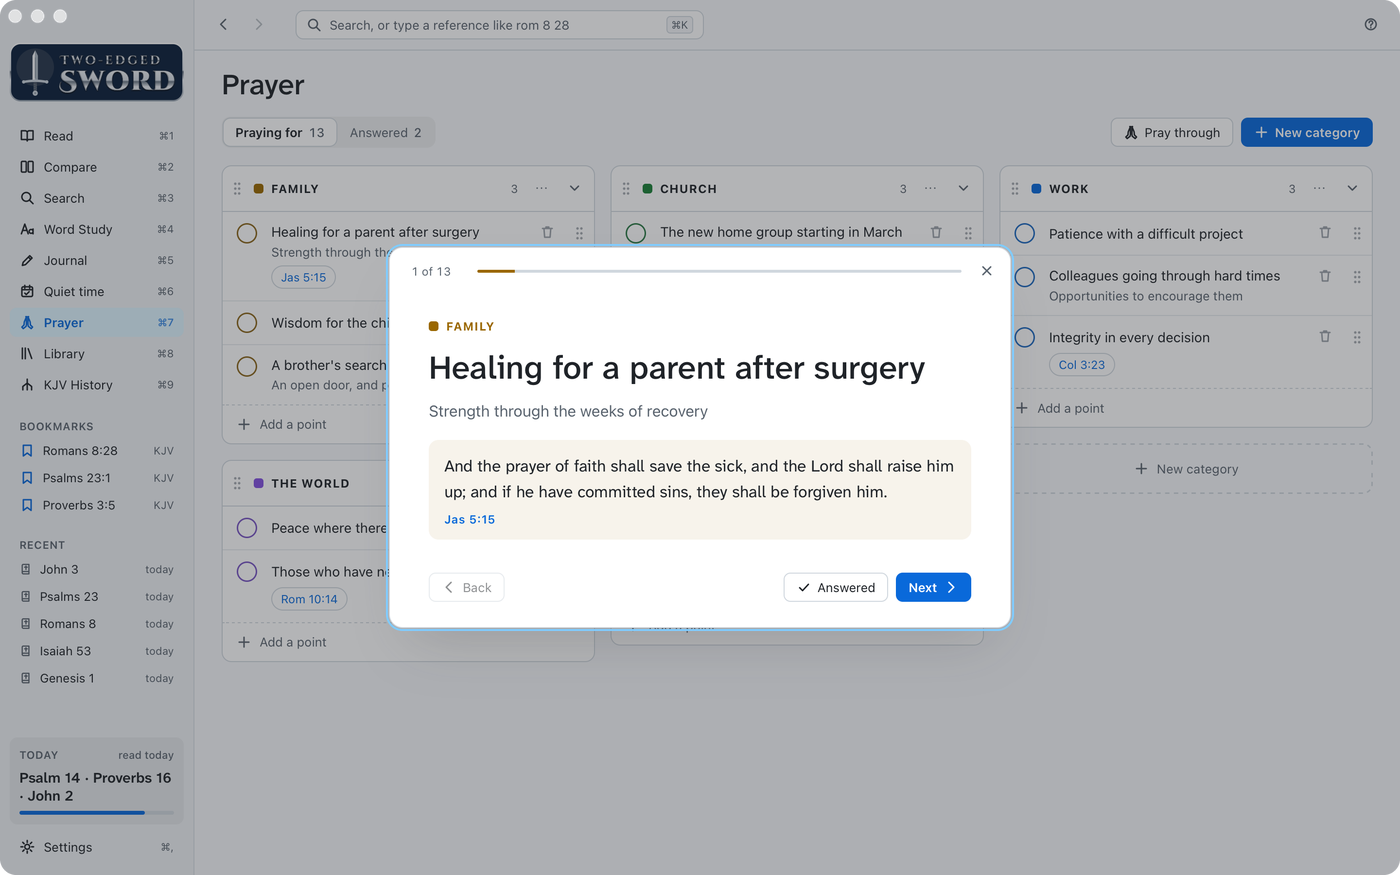
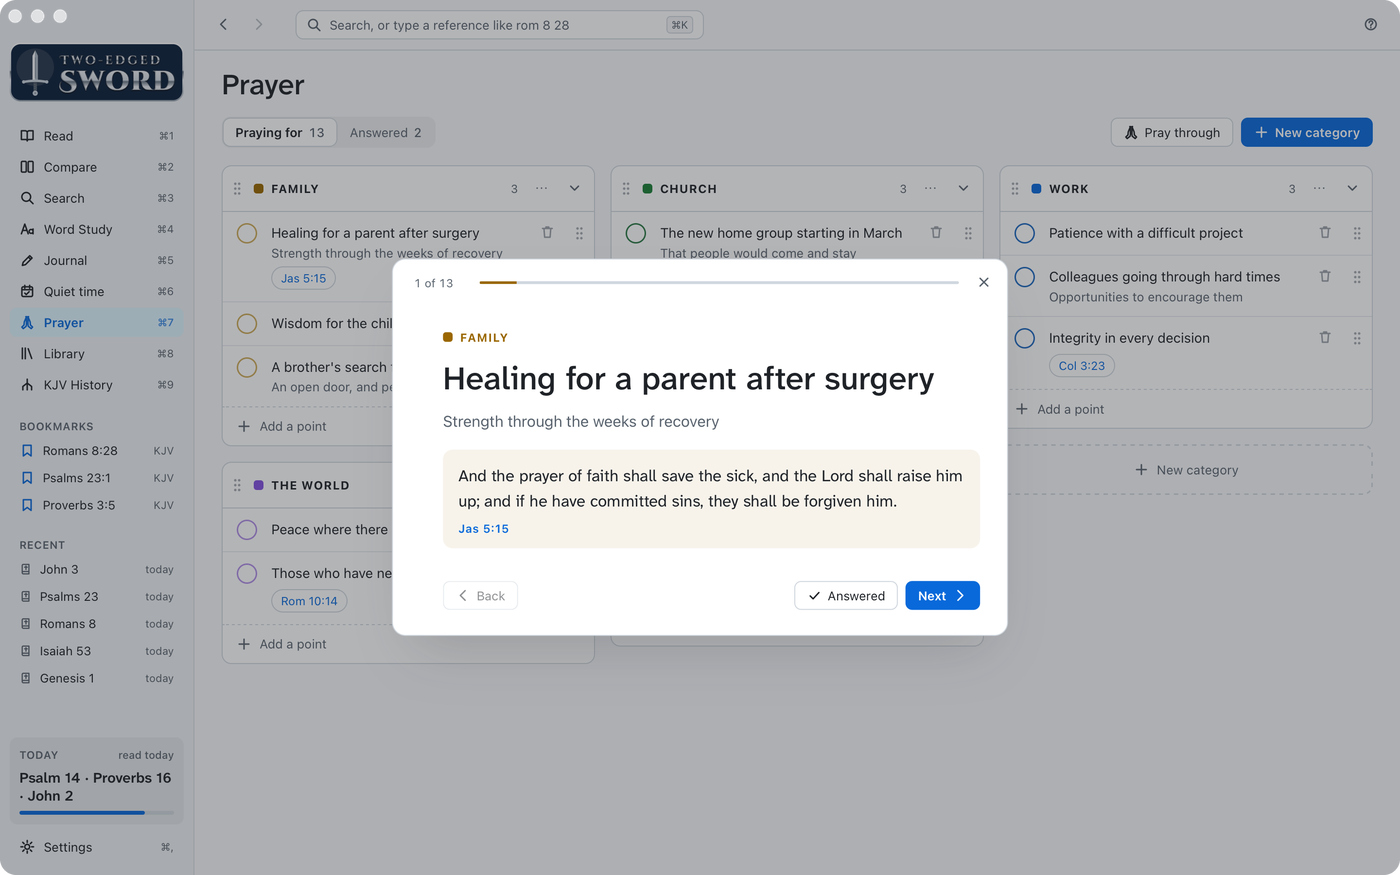
Website and tutorials: Prayer on the product page (first in Quiet time's tour, and a section of its own), a "Begin in prayer" step in the daily quiet time tutorial with its pictures, and the screen shortcuts now ⌘7 Prayer, ⌘8 Library, ⌘9 KJV History in the guides and tutorials. Fixes a point's note 

diff --git a/site/tutorials/devotional.html b/site/tutorials/devotional.html
@@ -73,8 +73,9 @@
     <div class="brief-card rise">
       <p class="eyebrow">The story</p>
       <p>Leading the Thursday group at Hillside Church has reminded you how much you need time alone with the Lord yourself. You want to <b>keep a daily quiet time</b>: half an hour each morning, before the day crowds in.</p>
-      <p>Quiet time is not a task to tick off. It is meeting with Jesus, your Lord and Saviour, who loved you and gave Himself for you. Two-edged Sword sets the table: the day's reading, a devotional, songs to worship Him, and a verse to carry with you. The Holy Spirit, the Comforter, does the teaching (John 14:26).</p>
+      <p>Quiet time is not a task to tick off. It is meeting with Jesus, your Lord and Saviour, who loved you and gave Himself for you. Two-edged Sword sets the table: prayer, the day's reading, a devotional, songs to worship Him, and a verse to carry with you. The Holy Spirit, the Comforter, does the teaching (John 14:26).</p>
       <ul class="makes">
+        <li><b>A prayer list</b>to begin each morning in prayer</li>
         <li><b>A reading plan</b>a Psalm, a Proverb and one more</li>
         <li><b>Worship</b>songs chosen for the day's reading</li>
         <li><b>A closing verse</b>to carry into the day</li>
@@ -89,13 +90,14 @@
       <ol>
         <li><a href="#plan"><span>1</span>Choose a plan</a></li>
         <li><a href="#devotionals"><span>2</span>Add a devotional</a></li>
-        <li><a href="#read"><span>3</span>Read each day</a></li>
-        <li><a href="#worship"><span>4</span>Worship first</a></li>
-        <li><a href="#words"><span>5</span>Sing the words</a></li>
-        <li><a href="#closing"><span>6</span>End with a verse</a></li>
-        <li><a href="#reminder"><span>7</span>Set a reminder</a></li>
-        <li><a href="#menubar"><span>8</span>Start from the <span class="mac-only">menu bar</span><span class="win-only">notification area</span></a></li>
-        <li><a href="#journal"><span>9</span>Write what you learned</a></li>
+        <li><a href="#prayer"><span>3</span>Begin in prayer</a></li>
+        <li><a href="#read"><span>4</span>Read each day</a></li>
+        <li><a href="#worship"><span>5</span>Worship before you read</a></li>
+        <li><a href="#words"><span>6</span>Sing the words</a></li>
+        <li><a href="#closing"><span>7</span>End with a verse</a></li>
+        <li><a href="#reminder"><span>8</span>Set a reminder</a></li>
+        <li><a href="#menubar"><span>9</span>Start from the <span class="mac-only">menu bar</span><span class="win-only">notification area</span></a></li>
+        <li><a href="#journal"><span>10</span>Write what you learned</a></li>
       </ol>
       <div class="bar" aria-hidden="true"><i></i></div>
     </aside>
@@ -129,14 +131,42 @@
           <li>Each is read as part of the day, opened on today's reading.</li>
         </ol>
         <figure class="figure rise">
-          <div class="shot free"><img src="../img/tut/tut4-cards.webp" alt="The Devotionals, Worship music and Closing verse cards on a plan's page" width="2366" height="422" loading="lazy"></div>
-          <figcaption>On the plan's page: the day's devotional, worship music and the closing verse.</figcaption>
+          <div class="shot free"><img src="../img/tut/tut4-cards.webp" alt="The Prayer, Worship music, Devotionals and Closing verse cards on a plan's page" width="2366" height="422" loading="lazy"></div>
+          <figcaption>On the plan's page, in the order Quiet time goes: prayer, worship music, the day's devotional and the closing verse.</figcaption>
         </figure>
       </section>
 
       <!-- 3 -->
-      <section id="read" class="lesson">
+      <section id="prayer" class="lesson">
         <span class="num">3</span>
+        <h2>Begin in prayer.</h2>
+        <p class="why">“Be careful for nothing; but in every thing by prayer and supplication with thanksgiving let your requests be made known unto God” (Philippians 4:6). A list keeps the people He has given you before Him each day: your family, the Thursday group, a colleague who is struggling.</p>
+        <h3>Make your prayer list</h3>
+        <ol class="do">
+          <li>Press <kbd data-win="Ctrl+7">⌘7</kbd> to open <b>Prayer</b>. Click <b>Family</b>, <b>Church</b> or one of the others to start, or <b>New category</b> to name your own, such as <b>Hillside Church</b>.</li>
+          <li>Click <b>Add a point</b> under a category and type what you're praying for. Return adds it and leaves the box open for the next.</li>
+          <li>Click a point to give it a short note, and the verses you pray over it, such as <b>Col 1:9</b>.</li>
+          <li>Drag a point to put it in order, or into another category. Drag a category by its header.</li>
+        </ol>
+        <figure class="figure rise">
+          <div class="shot"><img src="../img/tut/tut4-prayer.webp" alt="The prayer list: Hillside Church, Family, Work and The world, each with its prayer points" width="2880" height="1800" loading="lazy"></div>
+          <figcaption>A card for each part of your life, with the people and needs you bring to Him.</figcaption>
+        </figure>
+        <h3>Pray first, each morning</h3>
+        <ol class="do">
+          <li>Back in <b>Quiet time</b>, turn on the <b>Prayer</b> card on your plan's page.</li>
+          <li>Quiet time now begins with <b>Pray through</b>: one point at a time, with the words of its verses. <b>Next</b>, or <kbd>→</kbd>, goes on; <b>Go on</b> at the end takes you to the songs and the reading.</li>
+          <li>When God answers a prayer, click <b>Answered</b>. It moves to the <b>Answered</b> tab with the day, a record of His faithfulness.</li>
+        </ol>
+        <figure class="figure rise">
+          <div class="shot"><img src="../img/tut/tut4-praythrough.webp" alt="Pray through: the Thursday group, with the words of Colossians 1:9" width="2880" height="1800" loading="lazy"></div>
+          <figcaption>Pray through: one point at a time, its verse beneath it.</figcaption>
+        </figure>
+      </section>
+
+      <!-- 4 -->
+      <section id="read" class="lesson">
+        <span class="num">4</span>
         <h2>Read each day.</h2>
         <p class="why">“Thy word is a lamp unto my feet, and a light unto my path” (Psalm 119:105). Today's card has everything for the morning.</p>
         <ol class="do">
@@ -159,10 +189,10 @@
         </div>
       </section>
 
-      <!-- 4 -->
+      <!-- 5 -->
       <section id="worship" class="lesson">
-        <span class="num">4</span>
-        <h2>Worship first.</h2>
+        <span class="num">5</span>
+        <h2>Worship before you read.</h2>
         <p class="why">“God is a Spirit: and they that worship him must worship him in spirit and in truth” (John 4:24). A song or two before you read quiets the heart and turns it to Him.</p>
         <ol class="do">
           <li>On the <b>Worship music</b> card, turn on <b>Songs before the reading</b>, and <b>Songs after the reading</b> if you like, and choose how many.</li>
@@ -180,9 +210,9 @@
         </div>
       </section>
 
-      <!-- 5 -->
+      <!-- 6 -->
       <section id="words" class="lesson">
-        <span class="num">5</span>
+        <span class="num">6</span>
         <h2>Sing the words.</h2>
         <p class="why">While a song plays, its words show in the reading column, so you can sing along, or simply pray them.</p>
         <ol class="do">
@@ -206,9 +236,9 @@
         </div>
       </section>
 
-      <!-- 6 -->
+      <!-- 7 -->
       <section id="closing" class="lesson">
-        <span class="num">6</span>
+        <span class="num">7</span>
         <h2>End with a verse.</h2>
         <p class="why">The closing verse gathers up what the morning's reading taught, so you leave with one word from the Lord to carry through the day.</p>
         <ol class="do">
@@ -228,9 +258,9 @@
         </div>
       </section>
 
-      <!-- 7 -->
+      <!-- 8 -->
       <section id="reminder" class="lesson">
-        <span class="num">7</span>
+        <span class="num">8</span>
         <h2>Set a reminder.</h2>
         <p class="why">Jesus rose a great while before day and went out to pray (Mark 1:35). A gentle reminder helps the habit take root.</p>
         <ol class="do">
@@ -244,9 +274,9 @@
         </figure>
       </section>
 
-      <!-- 8 -->
+      <!-- 9 -->
       <section id="menubar" class="lesson">
-        <span class="num">8</span>
+        <span class="num">9</span>
         <h2 class="os-pane" data-os="mac">Start from the menu bar.</h2>
         <h2 class="os-pane" data-os="win">Start from the notification area.</h2>
         <p class="why os-pane" data-os="mac">Closing the window leaves the app in the menu bar, at the top of the screen, with today's reading a click away.</p>
@@ -262,9 +292,9 @@
         </figure>
       </section>
 
-      <!-- 9 -->
+      <!-- 10 -->
       <section id="journal" class="lesson">
-        <span class="num">9</span>
+        <span class="num">10</span>
         <h2>Write what you learned.</h2>
         <p class="why">A few lines each morning become a record of the Lord's faithfulness. Months from now, you'll see how He has led you.</p>
         <h3>Write</h3>
@@ -315,10 +345,11 @@
 
   <section class="done">
     <h2 class="rise">To God be the glory.</h2>
-    <p class="tagline rise">Your quiet time is set: His word each morning, songs to worship Him, a verse to carry with you, and a record of His faithfulness. Along the way, you learned to:</p>
+    <p class="tagline rise">Your quiet time is set: prayer and His word each morning, songs to worship Him, a verse to carry with you, and a record of His faithfulness. Along the way, you learned to:</p>
     <ul class="checks rise">
       <li><svg viewBox="0 0 24 24" aria-hidden="true"><path d="M5 12l5 5 9-10"/></svg>Choose a reading plan</li>
       <li><svg viewBox="0 0 24 24" aria-hidden="true"><path d="M5 12l5 5 9-10"/></svg>Add a devotional</li>
+      <li><svg viewBox="0 0 24 24" aria-hidden="true"><path d="M5 12l5 5 9-10"/></svg>Keep a prayer list, and begin in prayer</li>
       <li><svg viewBox="0 0 24 24" aria-hidden="true"><path d="M5 12l5 5 9-10"/></svg>Read, or listen, each day</li>
       <li><svg viewBox="0 0 24 24" aria-hidden="true"><path d="M5 12l5 5 9-10"/></svg>Worship with songs for the reading</li>
       <li><svg viewBox="0 0 24 24" aria-hidden="true"><path d="M5 12l5 5 9-10"/></svg>End with a closing verse</li>

diff --git a/site/index.html b/site/index.html
@@ -4,7 +4,7 @@
 <meta charset="utf-8">
 <meta name="viewport" content="width=device-width, initial-scale=1">
 <title>Two-edged Sword: Bible study for Mac and Windows</title>
-<meta name="description" content="Two-edged Sword is a free Bible study app for Mac and Windows: every commentary, lexicon and note you own, open at the verse you're reading, with Greek and Hebrew word by word, an AI assistant that answers from your library, a journal, and daily reading plans with worship music.">
+<meta name="description" content="Two-edged Sword is a free Bible study app for Mac and Windows: every commentary, lexicon and note you own, open at the verse you're reading, with Greek and Hebrew word by word, an AI assistant that answers from your library, a journal, a prayer list, and daily reading plans with worship music.">
 <meta name="google-site-verification" content="i4TUXxiTMawK83ozrMTEYSBRZYrrRbZOhnqJokfEkfU">
 <link rel="canonical" href="https://two-edged-sword.davies.co.za/">
 <meta name="color-scheme" content="dark">
@@ -31,7 +31,7 @@
   "@type": "SoftwareApplication",
   "name": "Two-edged Sword",
   "url": "https://two-edged-sword.davies.co.za/",
-  "description": "A Bible study app for macOS and Windows: Bibles, commentaries, dictionaries and books beside your own notes, with Greek and Hebrew word by word, an AI assistant that answers from your library, a journal, and daily reading plans with worship music.",
+  "description": "A Bible study app for macOS and Windows: Bibles, commentaries, dictionaries and books beside your own notes, with Greek and Hebrew word by word, an AI assistant that answers from your library, a journal, a prayer list, and daily reading plans with worship music.",
   "applicationCategory": "EducationalApplication",
   "operatingSystem": "macOS 13 or later (Apple silicon), Windows 10 or later (64-bit)",
   "downloadUrl": ["https://github.com/waynetd777/two-edged-sword/releases/latest/download/Two-edged-Sword.dmg", "https://github.com/waynetd777/two-edged-sword/releases/latest/download/Two-edged-Sword_x64-setup.exe"],
@@ -261,21 +261,33 @@
   <div class="wrap">
     <div class="lede">
       <h2>A plan for the morning, and music to go with it.</h2>
-      <p>Choose a reading plan: the Bible in a year, the New Testament in 90 days, a Psalm and a Proverb a day, or your own. Each day, Quiet time takes you through the readings, with worship songs from your music library that the assistant chooses to suit them, and ends with a verse that sums up the day.</p>
+      <p>Choose a reading plan: the Bible in a year, the New Testament in 90 days, a Psalm and a Proverb a day, or your own. Each day, Quiet time can begin in prayer, through your own prayer list, then takes you through the readings, with worship songs from your music library that the assistant chooses to suit them, and ends with a verse that sums up the day.</p>
     </div>
     <div class="tour rise" data-auto="5000">
       <figure class="shot swap">
+        <img src="img/prayer-through.webp" alt="Pray through: one prayer point at a time, with the words of its verse" loading="lazy" width="1400" height="875">
         <img src="img/quiet-time.webp" alt="Quiet time with today's readings" loading="lazy" width="1400" height="875">
         <img src="img/worship.webp" alt="Worship before the reading: why each song suits the day" loading="lazy" width="1400" height="875">
         <video src="img/lyrics-focus.mp4" poster="img/lyrics-focus.webp" muted playsinline loop preload="none" aria-label="Amazing Grace in focus mode: the lit line moving on through the words as a dove passes behind them, its verse coming in beneath" width="1400" height="875"></video>
         <img src="img/closing.webp" alt="The closing verse, Psalm 59:16–17, with how it sums up the day" loading="lazy" width="1400" height="875">
       </figure>
       <ol class="steps">
-        <li data-img="0">Today's readings, your streak, and the days ahead</li>
-        <li data-img="1">Songs chosen for today's reading, and why each suits it</li>
-        <li data-img="2" data-ms="10000">The words as they're sung, with a picture behind them in the colours of the song's artwork, and a verse beneath it</li>
-        <li data-img="3">A closing verse, and a few lines on how it sums up the day</li>
+        <li data-img="0">Prayer first: your prayer list one point at a time, with the words of its verses</li>
+        <li data-img="1">Today's readings, your streak, and the days ahead</li>
+        <li data-img="2">Songs chosen for today's reading, and why each suits it</li>
+        <li data-img="3" data-ms="10000">The words as they're sung, with a picture behind them in the colours of the song's artwork, and a verse beneath it</li>
+        <li data-img="4">A closing verse, and a few lines on how it sums up the day</li>
       </ol>
+    </div>
+    <div class="split flip prayer">
+      <div class="text">
+        <h3>A prayer list of your own.</h3>
+        <p>Keep the people and needs you pray for in categories you name: family, church, work, the world. Give a point a note and the verses you pray over it, and drag points and categories into the order you want.</p>
+        <p>Tick a prayer when God answers it. It moves to Answered with the day, so you can look back on His faithfulness.</p>
+      </div>
+      <figure class="shot rise">
+        <img src="img/prayer.webp" alt="The prayer list: a card for each category with its prayer points" loading="lazy" width="1400" height="875">
+      </figure>
     </div>
     <div class="split tray">
       <figure class="rise">
@@ -394,7 +406,7 @@
         <div class="card-copy">
           <span class="tag">Devotional · 30 min</span>
           <h3>A daily quiet time.</h3>
-          <p>Meet with the Lord each morning: a reading plan, devotionals, worship songs chosen for the day's reading, a closing verse, a reminder, and a journal of what He is teaching you.</p>
+          <p>Meet with the Lord each morning: prayer, a reading plan, devotionals, worship songs chosen for the day's reading, a closing verse, a reminder, and a journal of what He is teaching you.</p>
           <span class="go">Start the tutorial ›</span>
         </div>
         <div class="card-shot" aria-hidden="true">

diff --git a/site/tutorials/digging-deeper.html b/site/tutorials/digging-deeper.html
@@ -172,7 +172,7 @@
         <h2>Trace the KJV's sources.</h2>
         <p class="why">So where did the KJV's reading come from? The translators of 1611 worked from printed Greek editions, which rested on the manuscripts their editors had. <b>KJV History</b> draws the whole family tree.</p>
         <ol class="do">
-          <li>Press <kbd data-win="Ctrl+8">⌘8</kbd> for <b>KJV History</b>.</li>
+          <li>Press <kbd data-win="Ctrl+9">⌘9</kbd> for <b>KJV History</b>.</li>
           <li>At the top are the manuscript traditions: the Masoretic Hebrew, the Byzantine Greek, the Latin Vulgate, the Septuagint, the Targums and the Syriac Peshitta. Under them are the printed editions the translators used, such as Erasmus' and Beza's Greek New Testaments, and then the English Bibles before the KJV, from Tyndale to the Bishops' Bible.</li>
           <li>Point at a card to light up what it came from and what came from it.</li>
           <li>The labels on each card show what you have: click one to read it. The <b>ⓘ</b> on a card says what it is and what it gave the KJV.</li>

diff --git a/src/PrayerBoard.tsx b/src/PrayerBoard.tsx
@@ -465,15 +465,24 @@ export function PrayerBoard({
         >
           <Icon name="check" />
         </button>
-        <button
-          type="button"
+        {/* A div acting as a button: WebKit sizes a real <button> too short in this grid when its text
+            wraps, and the verses under it are drawn over the note. */}
+        <div
+          role="button"
+          tabIndex={0}
           className="pr-body"
           onClick={() => !suppressClick.current && setEditing({ kind: "point", id: p.id })}
+          onKeyDown={(e) => {
+            if (e.key === "Enter" || e.key === " ") {
+              e.preventDefault();
+              setEditing({ kind: "point", id: p.id });
+            }
+          }}
           aria-label={`${p.title}${p.note ? `. ${p.note}` : ""}. Edit`}
         >
           <span className="pr-title">{p.title}</span>
           {p.note && <span className="pr-note">{p.note}</span>}
-        </button>
+        </div>
         {p.verses.length > 0 && (
           <div className="pr-verses">
             {p.verses.map((v) => (

diff --git a/src/prayer.css b/src/prayer.css
@@ -392,15 +392,14 @@
   width: 22px;
   height: 22px;
 }
+/* Block, not flex: WebKit can measure a flex button in a grid too short, and a long note then runs
+   over the verses under it. */
 .pr-body {
   grid-area: body;
-  display: flex;
-  flex-direction: column;
-  gap: 2px;
+  display: block;
   min-width: 0;
   min-height: 32px;
-  justify-content: center;
-  padding: 5px 2px;
+  padding: 6px 2px 5px;
   border: 0;
   border-radius: 6px;
   background: none;
@@ -409,6 +408,14 @@
 }
 .pr-touch .pr-body {
   min-height: 40px;
+  padding-top: 9px;
+}
+.pr-title,
+.pr-note {
+  display: block;
+}
+.pr-note {
+  margin-top: 2px;
 }
 .pr-title {
   line-height: 1.35;
@@ -920,7 +927,7 @@
   border-radius: 14px;
   background: var(--panel);
   box-shadow: 0 30px 70px -20px var(--shadow, rgba(0, 0, 0, 0.5));
-  outline: none;
+  outline: none !important;
   animation: pr-rise 0.28s cubic-bezier(0.16, 1, 0.3, 1);
 }
 .pr-praytop {

diff --git a/site/tutorials/reading.html b/site/tutorials/reading.html
@@ -142,7 +142,7 @@
         <h2>Find your way around.</h2>
         <p class="why">Everything is a click or a key away. The sidebar on the left has the app's eight screens, with your bookmarks and recent chapters under them.</p>
         <ol class="do">
-          <li>Press <kbd data-win="Ctrl+1">⌘1</kbd> to <kbd data-win="Ctrl+8">⌘8</kbd> to switch screens: Read, Compare, Search, Word Study, Journal, Quiet time, Library and KJV History.</li>
+          <li>Press <kbd data-win="Ctrl+1">⌘1</kbd> to <kbd data-win="Ctrl+9">⌘9</kbd> to switch screens: Read, Compare, Search, Word Study, Journal, Quiet time, Prayer, Library and KJV History.</li>
           <li>To go anywhere, press <kbd data-win="Ctrl+K">⌘K</kbd> and type where. A reference works the way you'd say it:
             <div class="type">john 3</div>
           </li>

diff --git a/site/tutorials/library.html b/site/tutorials/library.html
@@ -108,7 +108,7 @@
         <h2>Open the Library.</h2>
         <p class="why">Before adding anything, see what you already have. The app comes with over seventy modules: Bibles, commentaries, dictionaries, lexicons, books and devotionals, all free to use.</p>
         <ol class="do">
-          <li>Press <kbd data-win="Ctrl+7">⌘7</kbd>, or click <b>Library</b> in the sidebar.</li>
+          <li>Press <kbd data-win="Ctrl+8">⌘8</kbd>, or click <b>Library</b> in the sidebar.</li>
           <li>Each Bible is listed with its features, such as Strong's numbers or the words of Jesus in red, and its <b>licence</b>.</li>
           <li>Click the <b>ⓘ</b> beside a module for its description and where it came from.</li>
           <li><b>In picker</b> chooses which Bibles are in the Bible menu. Turn off the ones you never read.</li>

diff --git a/site/tutorials/index.html b/site/tutorials/index.html
@@ -92,7 +92,7 @@
       <div class="card-copy">
         <span class="tag">Devotional · 30 min</span>
         <h2>A daily quiet time.</h2>
-        <p>Meet with the Lord each morning: a reading plan, devotionals, worship songs chosen for the day's reading, a closing verse, a reminder, and a journal of what He is teaching you.</p>
+        <p>Meet with the Lord each morning: prayer, a reading plan, devotionals, worship songs chosen for the day's reading, a closing verse, a reminder, and a journal of what He is teaching you.</p>
         <span class="go">Start the tutorial ›</span>
       </div>
       <div class="card-shot" aria-hidden="true">

diff --git a/site/tutorials/teaching.html b/site/tutorials/teaching.html
@@ -217,7 +217,7 @@
         </figure>
         <div class="tip">
           <svg viewBox="0 0 24 24" aria-hidden="true"><path d="M8 6h12M8 12h12M8 18h12M4 6h.01M4 12h.01M4 18h.01"/></svg>
-          <p><b>Your favourite first.</b> Choose the order the commentaries come in, in the <b>Library</b> (<kbd data-win="Ctrl+7">⌘7</kbd>).</p>
+          <p><b>Your favourite first.</b> Choose the order the commentaries come in, in the <b>Library</b> (<kbd data-win="Ctrl+8">⌘8</kbd>).</p>
         </div>
       </section>
 

diff --git a/site/landing.css b/site/landing.css
@@ -684,6 +684,9 @@ p {
 }
 
 /* The menu bar part of Quiet time */
+.split.prayer {
+  margin-top: clamp(64px, 8vw, 110px);
+}
 .split.tray {
   margin-top: clamp(64px, 8vw, 110px);
   grid-template-columns: 4fr 7fr;

diff --git a/tools/helpcheck.py b/tools/helpcheck.py
@@ -40,6 +40,7 @@ APP_ACTIONS = {
     "word",
     "journal",
     "plans",
+    "prayer",
     "library",
     "history",
     "settings",

diff --git a/docs/manuscripts.md b/docs/manuscripts.md
@@ -55,7 +55,7 @@ Word-by-word Bibles show each original word over its English and its Strong's nu
 
 <a href="images/index.md#translations-and-manuscripts"><picture><source media="(prefers-color-scheme: dark)" srcset="images/kjv-history-dark.png"><img alt="The KJV's family tree: manuscript traditions, printed editions, earlier English Bibles, and which are in the library" src="images/kjv-history-light.png"></picture></a>
 
-**KJV History** (⌘8) is the KJV's family tree, in two tabs:
+**KJV History** (⌘9) is the KJV's family tree, in two tabs:
 
 - **Before the KJV**: the manuscripts, the printed editions the translators used, and the English
   Bibles before it.
